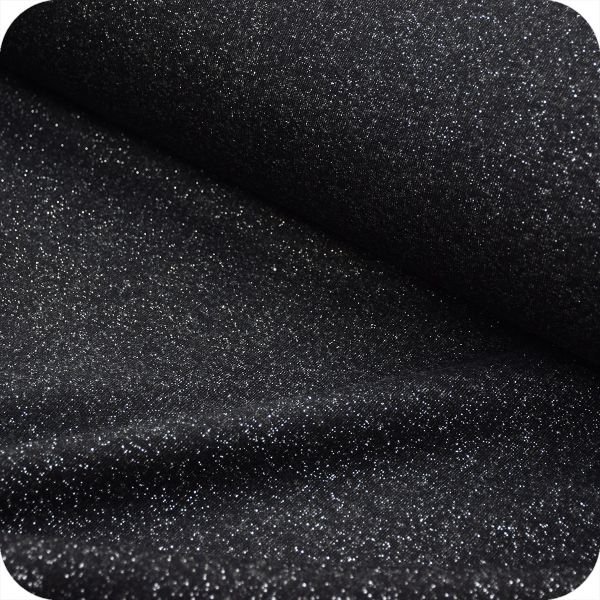
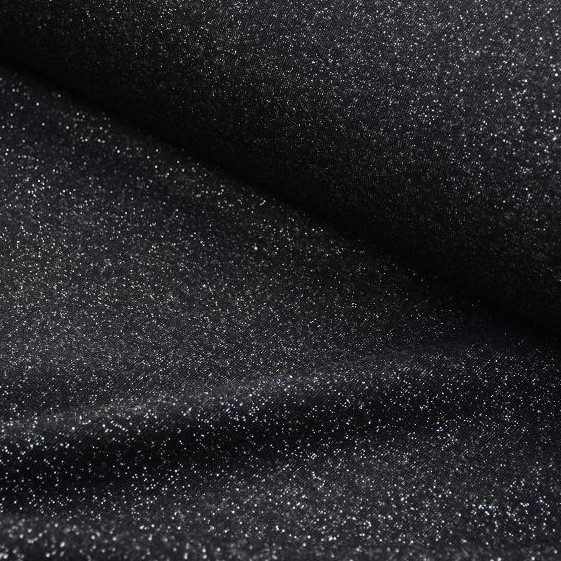
Création projet sweat Bloom

Changed region(s): [[0.0, 0.1515, 1.0, 1.0], [0.1212, 0.0, 1.0, 0.4242], [0.0, 0.0, 0.0909, 0.0909]]

diff --git a/src/generator.js b/src/generator.js
@@ -167,7 +167,45 @@ projects.push({
   {
     src: 'realisation-sofia2.jpg',
     alt: 'Réalisation Sofia'
+  }]
+})
+
+// Bloom
+projects.push({
+  file: 'projet-bloom1.html',
+  code: 'bloom',
+  status: 'wip',
+  title: 'Sweat Bloom',
+  patternHTML: `<ul>
+      <li>Nom : Bloom</li>
+      <li>Type : Pull sweat</li>
+      <li>Editeur : <a href="http://www.lmvcollection.ovh/sweat-bloom/" target="_blank">La Maison Victor</a></li>
+      <li>Difficulté : ⚫⚫⚪⚪</li>
+    </ul>`,
+  patternImages: [{
+    src: 'patron-bloom1.jpg',
+    alt: 'Patron Bloom'
+  },
+  {
+    src: 'patron-bloom2.jpg',
+    alt: 'Patron Bloom'
   }],
+  fabricHTML: `<ul>
+      <li>Matière : Coton Molleton</li>
+      <li>Couleur : Noir/Lurex argent</li>
+      <li>Métrage : 130cm</li>
+      <li>Vendeur : <a href="https://www.cousette.com/molleton-sweat/11090-molleton-noir-lurex-argent.html" target="_blank">Cousette</a></li>
+    </ul>`,
+  fabricImages: [{
+      src: 'tissu-molleton-noir-lurex-argent1.jpg',
+      alt: 'Tissu molleton noir/argent'
+    },
+    {
+      src: 'tissu-molleton-noir-lurex-argent2.jpg',
+      alt: 'Tissu molleton noir/argent'
+    }
+  ],
+  notesHTML: ''
 })
 
 const projectTemplate = require('./project-template')
